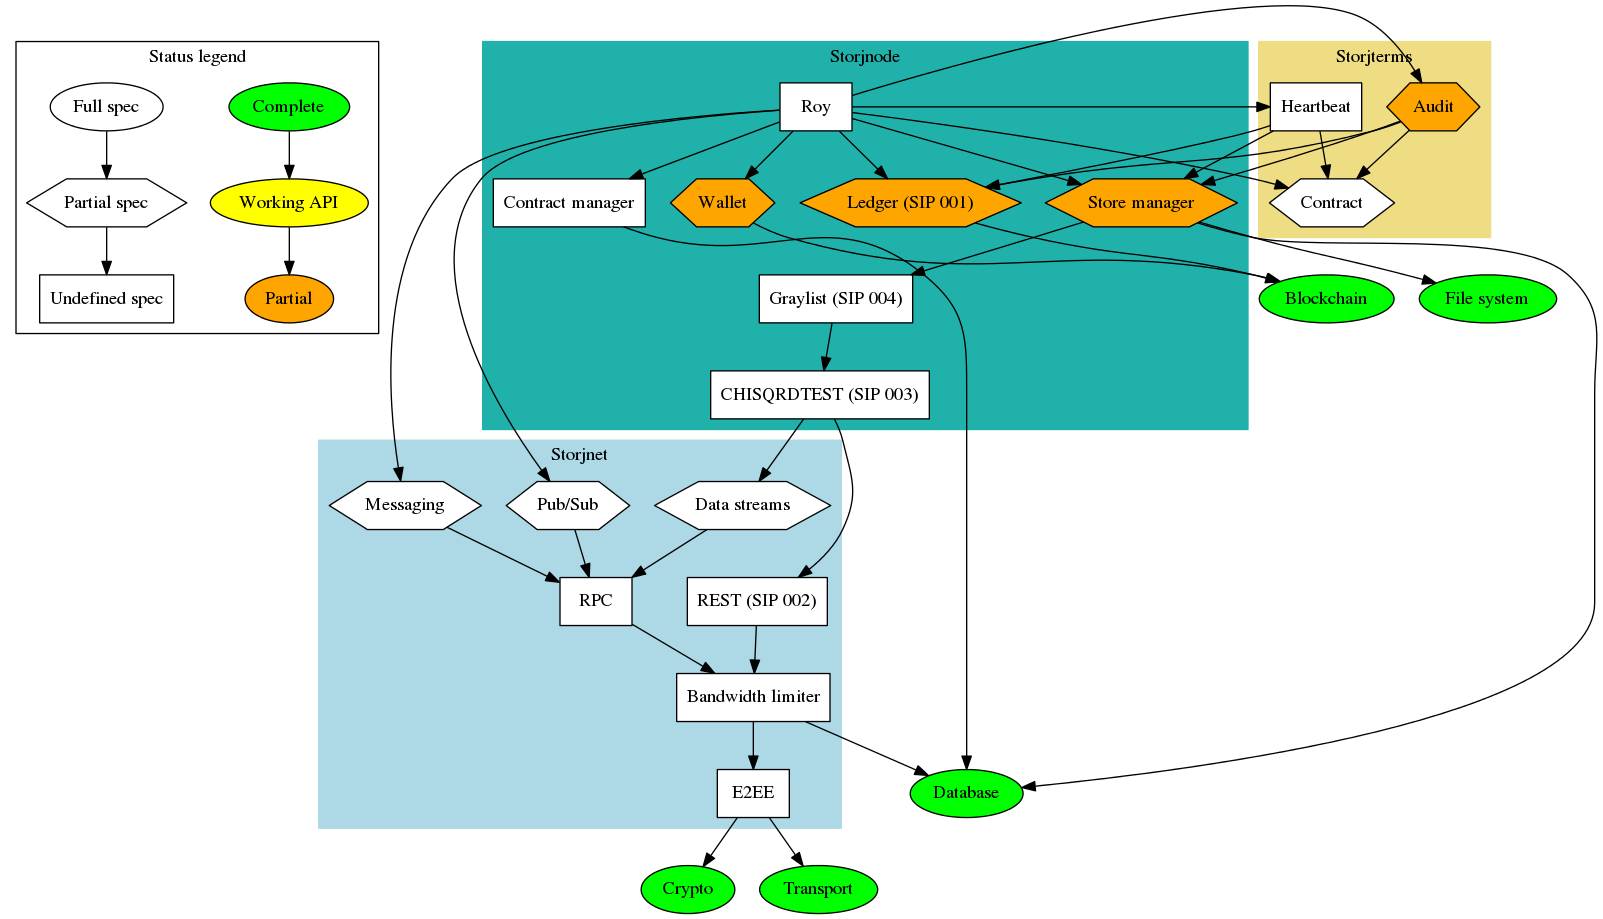
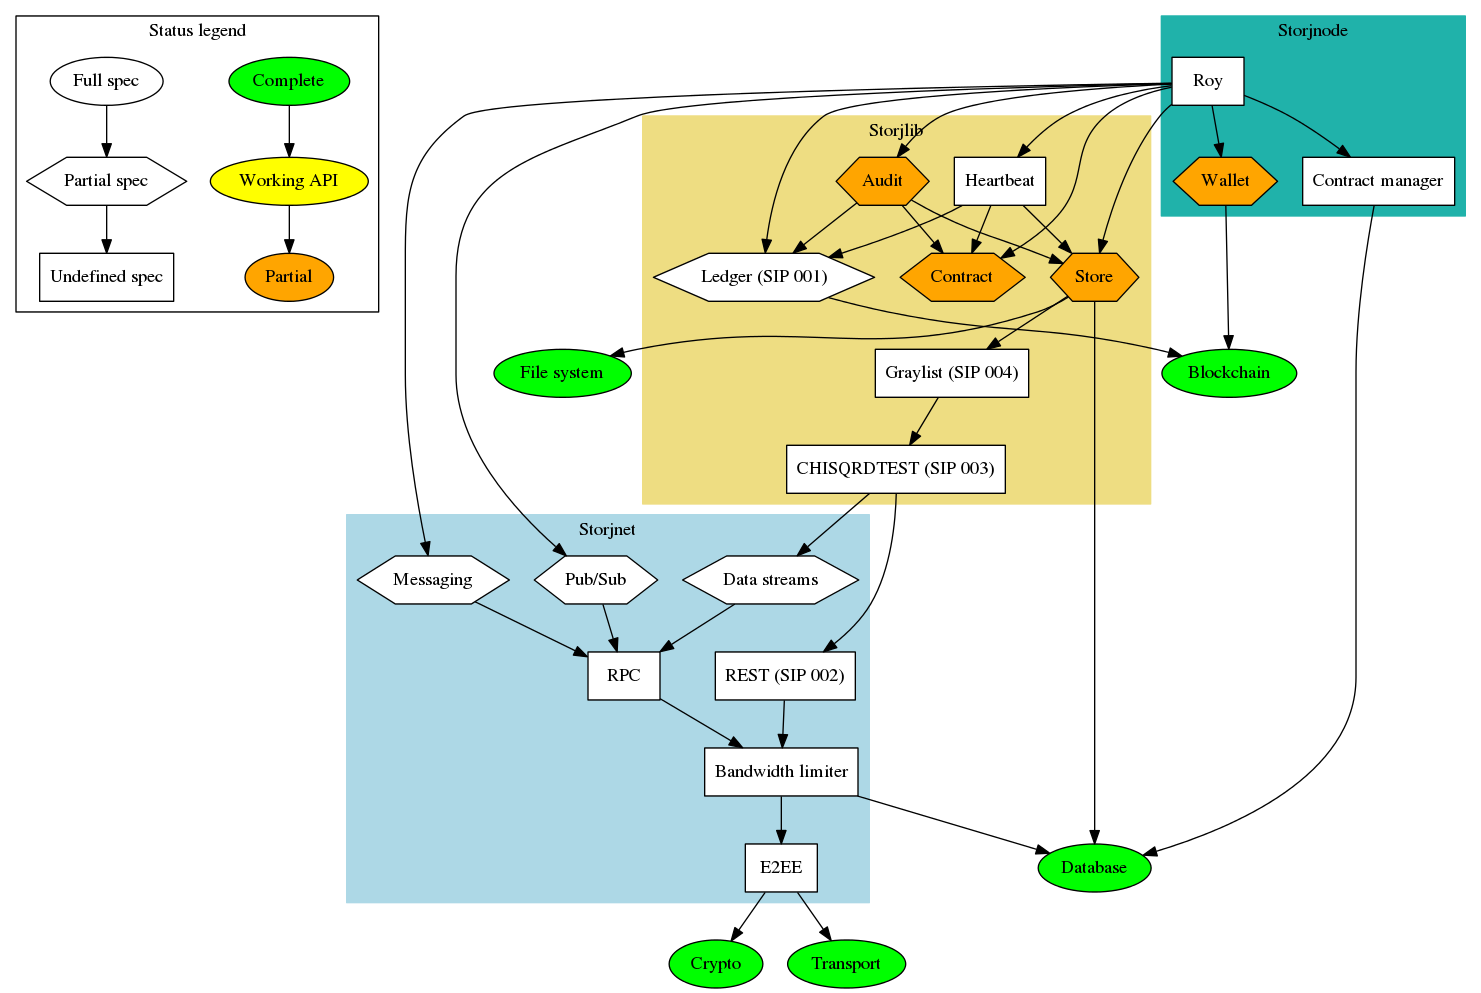
mv storjterms -> storjlib and rm storjnode

diff --git a/storjlib/audit/test.py b/storjlib/audit/test.py
@@ -1,0 +1,56 @@
+import os
+import unittest
+import hashlib
+import pyjsonrpc
+
+
+DEFAULT_RPC_URL = "http://127.0.0.1:7000"
+STORJLIB_RPC_URL = os.environ.get("STORJLIB_RPC_URL", DEFAULT_RPC_URL)
+
+
+def h(data):
+    return hashlib.new("ripemd160", hashlib.sha256(data).digest())
+
+
+NUMCHALLENGES = 5
+SHARDDATA = b"monkey butt"
+CHALLANGES = [os.urandom(32) for n in range(NUMCHALLENGES)]
+R0 = h(CHALLANGES[0] + SHARDDATA)
+R1 = h(CHALLANGES[1] + SHARDDATA)
+R2 = h(CHALLANGES[2] + SHARDDATA)
+R3 = h(CHALLANGES[3] + SHARDDATA)
+R4 = h(CHALLANGES[4] + SHARDDATA)
+R5 = h("" + SHARDDATA)
+R6 = h("" + SHARDDATA)
+R7 = h("" + SHARDDATA)
+L0, L1, L2, L3, L4, L5, L6, L7 = (h(R0), h(R1), h(R2), h(R3),
+                                  h(R4), h(R5), h(R6), h(R7))
+ROOT = h(h(h(L0 + L1) + h(L2 + L3)) + h(h(L4 + L5) + h(L6 + L7)))
+CHALLENGE = CHALLANGES[3]
+N01 = h(L0 + L1)
+N4567 = h(h(L4 + L5) + h(L6 + L7))
+PROOF = [N01, [L2, [R3]], N4567]
+
+
+@unittest.skip("not implemented")
+class TestPrepare(unittest.TestCase):
+    pass
+
+
+@unittest.skip("not implemented")
+class TestPerform(unittest.TestCase):
+    pass
+
+
+class TestValidate(unittest.TestCase):
+
+    def setUp(self):
+        self.rpc = pyjsonrpc.HttpClient(url=STORJLIB_RPC_URL)
+
+    def test_validate(self):
+        self.assertTrue(self.rpc.audit_validate(PROOF, ROOT, CHALLENGE,
+                                                NUMCHALLENGES))
+
+
+if __name__ == "__main__":
+    unittest.main()

diff --git a/storjlib/contract/test.py b/storjlib/contract/test.py
@@ -6,7 +6,7 @@ import pyjsonrpc
 
 
 DEFAULT_RPC_URL = "http://127.0.0.1:7000"
-STORJTERMS_RPC_URL = os.environ.get("STORJTERMS_RPC_URL", DEFAULT_RPC_URL)
+STORJLIB_RPC_URL = os.environ.get("STORJLIB_RPC_URL", DEFAULT_RPC_URL)
 CONTRACT_DIR = os.path.dirname(os.path.abspath(__file__))
 CONTRACT_SCHEMA_PATH = os.path.join(CONTRACT_DIR, "schema.json")
 CONTRACT_SCHEMA = json.loads(open(CONTRACT_SCHEMA_PATH, 'r').read())
@@ -167,14 +167,14 @@ class TestIsValid(unittest.TestCase, _AbsTestIsValid):
         return self.rpc.contract_is_valid(contract)
 
     def setUp(self):
-        self.rpc = pyjsonrpc.HttpClient(url=STORJTERMS_RPC_URL)
+        self.rpc = pyjsonrpc.HttpClient(url=STORJLIB_RPC_URL)
 
 
 @unittest.skip("not implemented")
 class TestIsComplete(unittest.TestCase, _AbsTestIsValid):
 
     def setUp(self):
-        self.rpc = pyjsonrpc.HttpClient(url=STORJTERMS_RPC_URL)
+        self.rpc = pyjsonrpc.HttpClient(url=STORJLIB_RPC_URL)
 
     @unittest.skip("not implemented")
     def test_complete(self):

diff --git a/README.md b/README.md
@@ -5,9 +5,8 @@ storj application. It consists of three main components:
 
  * [storjnet](storjnet): Responsible node networking and communication.
 
- * [storjterms](storjterms): Responsible for storage contracts, auditing and heartbeat terms.
+ * [storjlib](storjlib): Responsible for storage contracts, auditing and heartbeat terms.
 
- * [storjnode](storjnode): Reference client that is not part of the protocol, but included as defines useful components required by most implementations.
 
 ### Dependency graph and progress status
 
@@ -18,8 +17,7 @@ storj application. It consists of three main components:
 
     # set location rpc services (values listed are the expcted defaults)
     export STORJNET_RPC_URL="http://127.0.0.1:5000"
-    export STORJNODE_RPC_URL="http://127.0.0.1:6000"
-    export STORJTERMS_RPC_URL="http://127.0.0.1:7000"
+    export STORJLIB_RPC_URL="http://127.0.0.1:7000"
 
     # run all tests
     make test
@@ -27,11 +25,8 @@ storj application. It consists of three main components:
     # only run storjnet tests
     make test_storjnet
 
-    # only run storjnode tests
-    make test_storjnode
-
-    # only run storjterms tests
-    make test_storjterms
+    # only run storjlib tests
+    make test_storjlib
 
 
 ### Adding compatibility tests to travis
@@ -42,34 +37,25 @@ have to ensure a rpc service exposing the api is running for the tests.
 #### Run storjnet compatibility tests
 
     env:
-      - STORJNODE_RPC_URL="http://127.0.0.1:7000"
+      - STORJNET_RPC_URL="http://127.0.0.1:7000"
 
     script:
       - bash -c "source <(curl -s https://raw.githubusercontent.com/Storj/storjspec/master/test_storjnet_compatibility.sh)"
 
 
-#### Run storjterms compatibility tests
+#### Run storjlib compatibility tests
 
     env:
-      - STORJTERMS_RPC_URL="http://127.0.0.1:6000"
+      - STORJLIB_RPC_URL="http://127.0.0.1:6000"
 
     script:
-      - bash -c "source <(curl -s https://raw.githubusercontent.com/Storj/storjspec/master/test_storjterms_compatibility.sh)"
-
-
-#### Run storjnode compatibility tests
-
-    env:
-      - STORJNET_RPC_URL="http://127.0.0.1:5000"
-
-    script:
-      - bash -c "source <(curl -s https://raw.githubusercontent.com/Storj/storjspec/master/test_storjnode_compatibility.sh)"
+      - bash -c "source <(curl -s https://raw.githubusercontent.com/Storj/storjspec/master/test_storjlib_compatibility.sh)"
 
 
 #### Run all compatibility tests
 
     env:
-      - STORJNODE_RPC_URL="http://127.0.0.1:7000" STORJTERMS_RPC_URL="http://127.0.0.1:6000" STORJNET_RPC_URL="http://127.0.0.1:5000"
+      - STORJLIB_RPC_URL="http://127.0.0.1:6000" STORJNET_RPC_URL="http://127.0.0.1:5000"
 
     script:
       - bash -c "source <(curl -s https://raw.githubusercontent.com/Storj/storjspec/master/test_compatibility.sh)"

diff --git a/storjlib/readme.md b/storjlib/readme.md
@@ -1,0 +1,27 @@
+# Storjlib specification and compatibility tests
+
+[Python reference implimentation](https://github.com/storj/storjlib)
+
+ * [contract](contract): A storage contract defines obligations between farmer and renter.
+ * [audit](audit): Provides proof of storage.
+ * [heartbeat](heartbeat): Provides proof of availability. 
+
+## User API Calls
+
+| Command                | Arguments                                | Returns       | Description                                                   |
+|------------------------|------------------------------------------|---------------|---------------------------------------------------------------|
+| contract_is_valid      | contract                                 | bool          | Returns true if given object matches the contract schema.     |
+| contract_sign          | contract, key                            | contract      | Sign contract (all fields except signatures must be filled).  |
+| contract_is_complete   | contract                                 | bool          | Returns true if given object is a complete signed contract.   |
+|                        |                                          |               |                                                               |
+| audit_prepare          | shardid, challenges                      | leaves        | TODO add documentation                                        |
+| audit_perform          | shardid, leaves, challenge               | proof         | Proof format: [[node, [leaf, [response]]], node]              |
+| audit_validate         | proof, root, challenge, numchallenges    | bool          | TODO add documentation                                        |
+
+
+## Global hash function
+
+All hashes are preformed with the following algorithm.
+
+    ripemd160(sha256(data))
+
